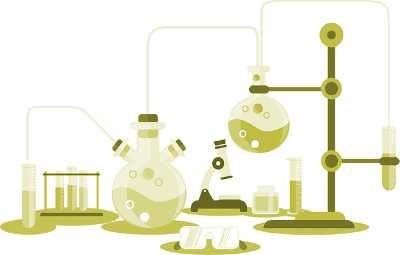
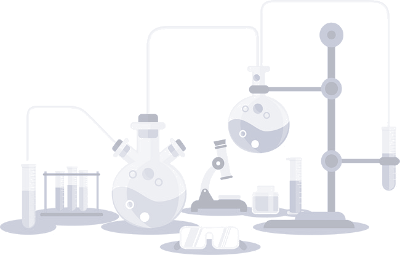
new background

Changed region(s): [[0.0, 0.0275, 1.0, 1.0], [0.66, 0.0, 0.96, 0.0275], [0.21, 0.4392, 0.27, 0.5216]]

diff --git a/client/public/css/app.css b/client/public/css/app.css
@@ -1,7 +1,7 @@
 body {
   
   min-width: 600px;
-  background: url('../images/lab.png'), linear-gradient(180deg, #ffffff 20%, #e9e4bb 100%) fixed;
+  background: url('../images/lab.png'), linear-gradient(180deg, #f2f4f8 20%, #d2d3e9 75%,#b8b7ce 100%) fixed;
   background-repeat: no-repeat;
   background-attachment: fixed;
   background-position: bottom right;
